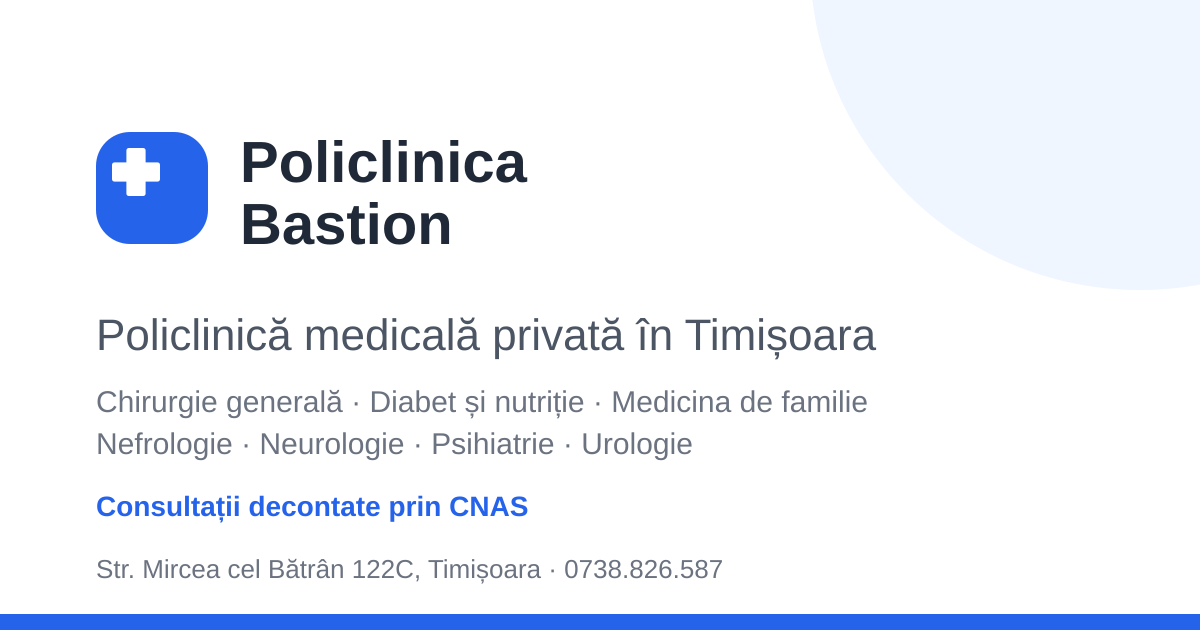
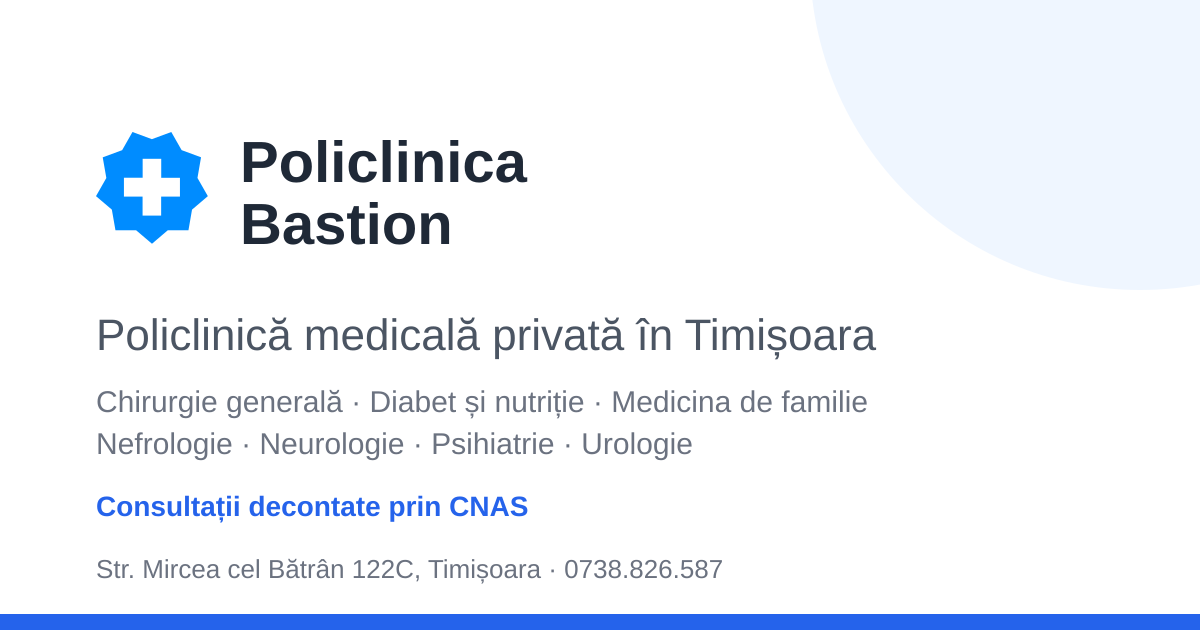
Adauga sigla reala si fotografiile medicilor
**Sigla.** `public/favicon.svg` e acum fisierul primit de la client, iar
aceeasi forma e desenata inline in `Logo.astro`, colorata prin
`currentColor`: albastrul ei pe fundal deschis, alb in subsol si in bara
de sus. Inainte era un semn desenat de mana, un patrat rotunjit cu o
cruce, pus ca sa nu ramana un gol in antet.

Culoarea siglei (#008CFF) e putin diferita de albastrul interfetei
(#2563EB). Nu am uniformizat-o: sigla e un fisier primit, nu o culoare
aleasa in design. Sta ca token separat, `--color-logo`, daca se decide
altfel.

`scripts/make-icons.mjs` scoate din SVG si `apple-touch-icon.png`. Safari
pe iOS nu citeste favicon SVG, iar fara fisierul acesta iconita de pe
ecranul de start ar fi o captura a paginii. Imaginea de distribuire
foloseste si ea sigla reala acum.

**Fotografiile.** 21 din cele 24 de profiluri au acum poza. Potrivirea
fisier -> medic s-a facut dupa numele din `media-manifest.json`, adica
exact numele fisierelor de pe site-ul vechi: 19 au corespuns exact. Doua
fisiere nu sunt de pe site-ul vechi si le-am asezat dupa nume, fiind cate
o singura persoana cu numele acela in echipa: `sergiu.png` la Dr. Milos
Sergiu-Paul si `muntean suici.png` la Dr. Suici Aida-Marcela.

Pozele sunt convertite in WebP, cel mult 900px pe latura lunga: cardul
cere 592px, portretul 200px. Originalele aveau intre 1 si 1,9 MB fiecare,
aproape 28 MB in total; asa ocupa 704 KB. Un depozit nu trebuie sa care
fisiere de zece ori mai mari decat ce ajunge la browser.
[…]

Changed region(s): [[0.0617, 0.2111, 0.185, 0.3921]]

diff --git a/src/styles/global.css b/src/styles/global.css
@@ -18,6 +18,9 @@
   --color-brand-light: #3b82f6; /* blue-500 */
   --color-brand-50: #eff6ff;
   --color-brand-100: #dbeafe;
+  /* Albastrul siglei, diferit de brand-ul interfetei: sigla e un fisier primit
+     de la client, nu o culoare aleasa in design. */
+  --color-logo: #008cff;
 
   /* Text ------------------------------------------------------------------- */
   --color-ink: #1f2937; /* text-primary   / gray-800 */

diff --git a/docs/ARHITECTURA.md b/docs/ARHITECTURA.md
@@ -815,6 +815,32 @@ Tina scrie în câmp valoarea `/src/assets/uploads/poza.jpg`, iar helperul
 În producție, imaginile sunt servite prin Vercel Image Optimization
 (`/_vercel/image?...`).
 
+### Sigla și iconițele
+
+`public/favicon.svg` e sigla primită de la client, o singură formă într-o
+singură culoare (`#008CFF`). Aceeași formă e desenată inline în
+`components/layout/Logo.astro`, colorată prin `currentColor`: albastrul ei pe
+fundal deschis, alb în subsol și în bara de sus.
+
+Culoarea siglei e puțin diferită de albastrul interfeței (`--color-brand`,
+`#2563EB`). Nu am uniformizat-o: sigla e un fișier primit, nu o culoare aleasă
+în design. Există ca token separat, `--color-logo`, dacă se decide altfel.
+
+`public/apple-touch-icon.png` se generează din SVG cu
+`node scripts/make-icons.mjs`. Safari pe iOS nu citește favicon SVG, iar fără
+fișierul acesta iconița de pe ecranul de start ar fi o captură a paginii.
+
+### Fotografiile medicilor
+
+Cele 21 de fotografii primite de la client au fost convertite în WebP, la cel
+mult 900px pe latura lungă (cardul cere 592px, portretul 200px). Originalele
+aveau între 1 și 1,9 MB fiecare, aproape 28 MB în total; convertite, ocupă
+704 KB. Un depozit nu trebuie să care fișiere de zece ori mai mari decât ce
+ajunge la browser.
+
+Trei medici nu au încă fotografie (Gădălean, Peagu, Georgescu); cardurile lor
+arată inițialele, ceea ce e comportamentul normal al componentei.
+
 ---
 
 ## 6. Static vs. server
@@ -997,7 +1023,11 @@ Lucruri conștient lăsate pentru pașii următori:
       fost blocat în acest mediu; vezi §8).
 - [ ] Recenzii reale, copiate din Google Business Profile (rating actual: ~4,2/5,
       ~70 de recenzii), în locul celor 4 generice din `src/content/testimoniale/`.
-- [ ] Fotografiile medicilor și imaginile pentru articole.
+- [x] ~~Fotografiile medicilor~~ (21 din 24, primite de la client și importate).
+      Lipsesc Gădălean Florica-Nicoleta, Peagu Ana-Constanța și Georgescu Carmen.
+- [ ] Imaginile pentru articole: `node scripts/import-media.mjs`, de pe o mașină
+      care ajunge la policlinicabastion.ro (61 de coperți, plus fotografiile
+      pentru Peagu și Georgescu). Scriptul sare peste ce are deja imagine.
 - [ ] Datele financiare ale proiectului european (cod, valoare, perioadă exactă).
 - [ ] Paginare pe `/noutati` (acum se afișează toate articolele nepublicate ca draft).
 - [ ] Redirect-uri 301 din URL-urile vechi de WordPress (`vercel.json`), vezi
